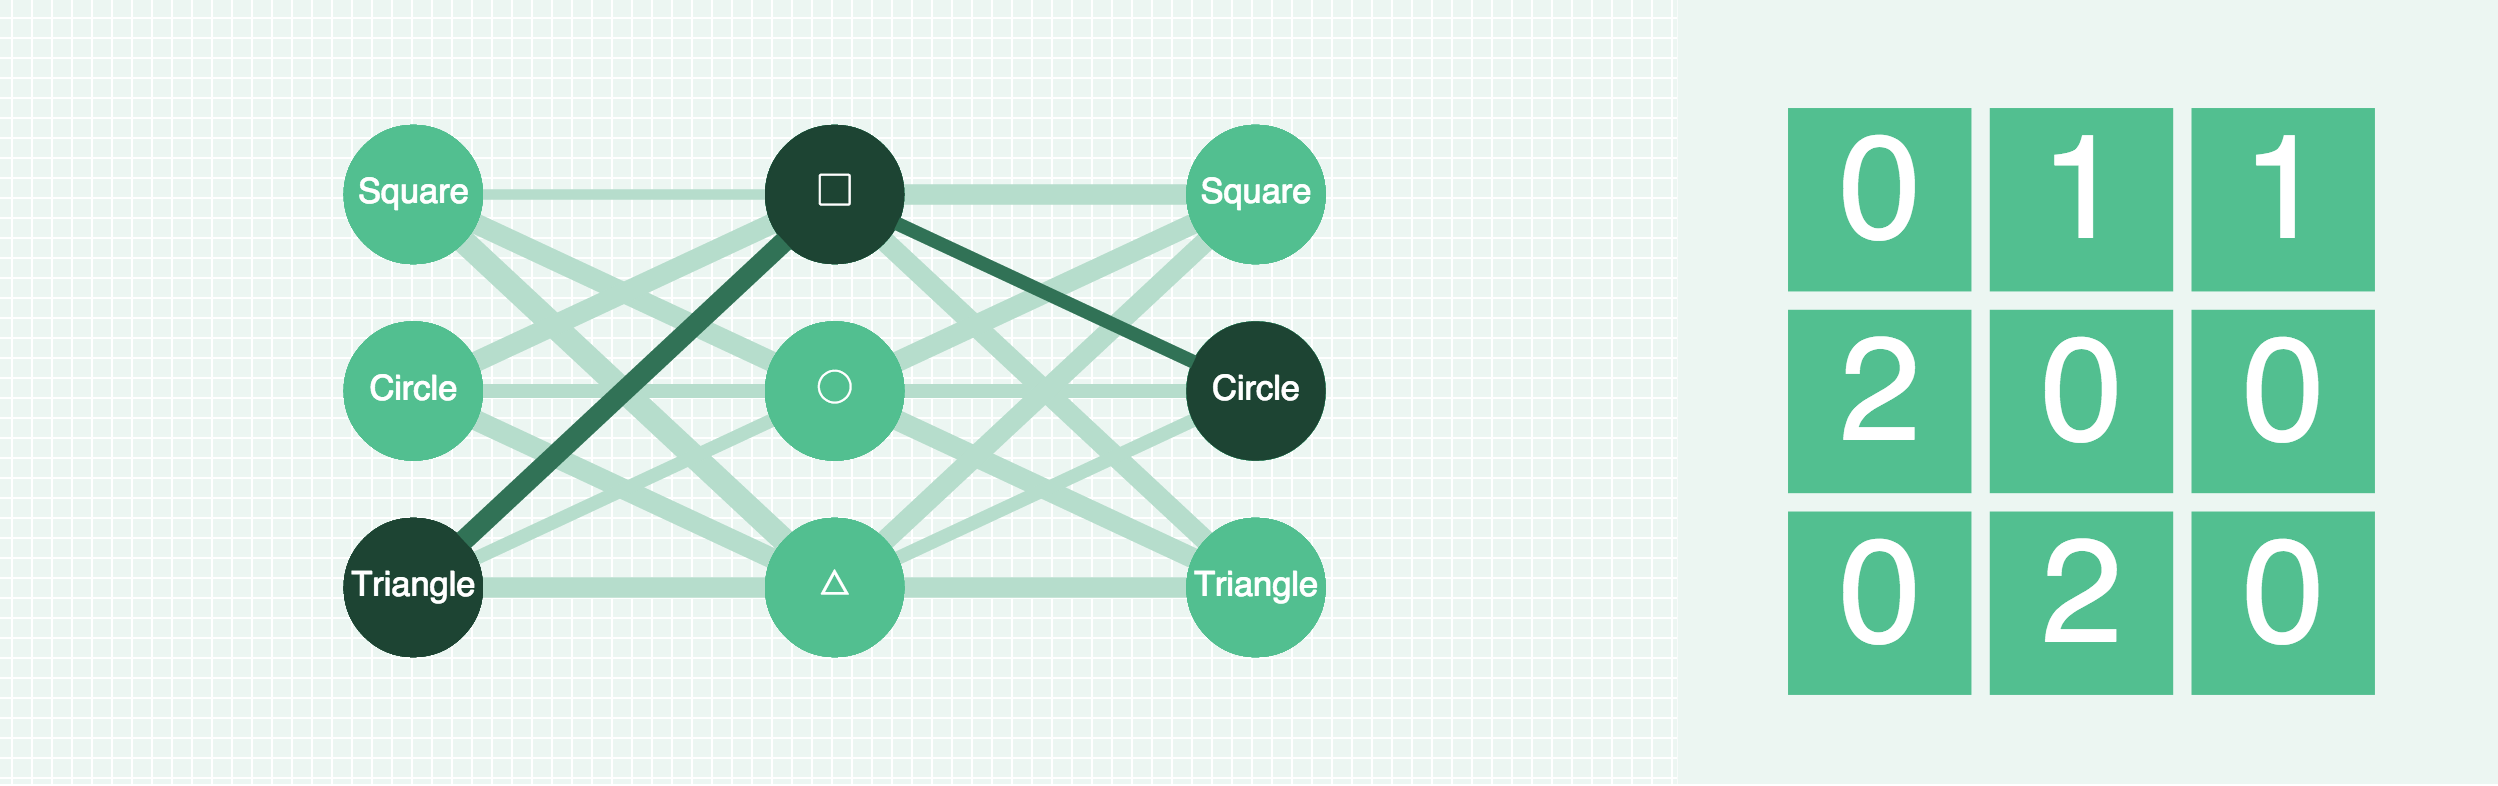
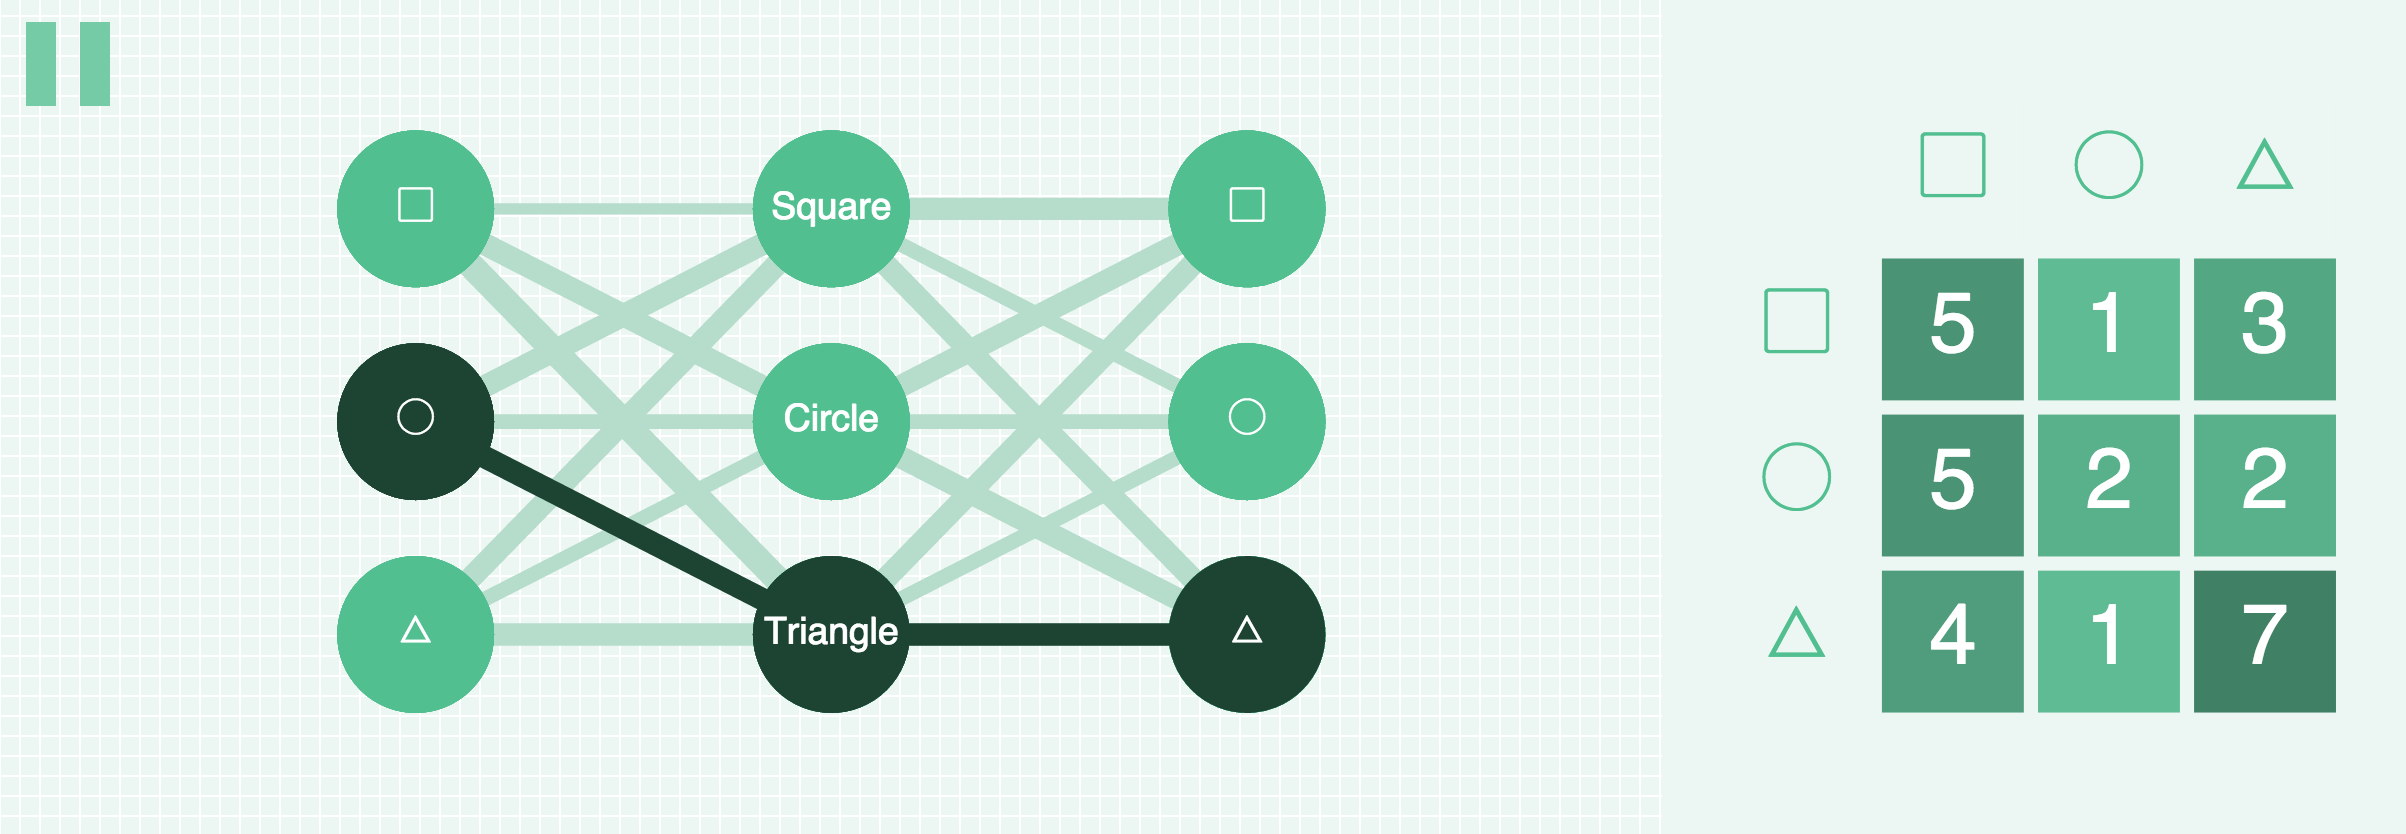
positioned autoplay button

diff --git a/js/src/pgm.js b/js/src/pgm.js
@@ -124,8 +124,8 @@ function GraphicalModel(graphConfiguration) {
             },
             vertex: {
                 radius: 0.35,
-                defaultColor: "lightsteelblue",
-                visitedColor: "steelblue",
+                defaultColor: "#52bf90",
+                visitedColor: "#1d4433",
             },
             edge: {
                 baseWidth: 0.1, // base width offset = baseWidth * circle radius
@@ -147,9 +147,14 @@ function GraphicalModel(graphConfiguration) {
             },
             autoPlay: {
                 on: false,
-                timeInterval: 1000
+                button: {
+                    dim: 1,
+                    color: "#74cba6"
+                },
+                timeIntervalToUpdateChart: 400,
+                timeInterval: 800
             },
-            autoPlayable: true,  // If autoPlayable, creates the autoplay button
+            autoPlayable: true, // If autoPlayable, creates the autoplay button
             zoom: true,
         },
 
@@ -169,7 +174,7 @@ function GraphicalModel(graphConfiguration) {
             // Check if the clicked node is in the first layer
             // which are the num of nodes in first layer of clusterMat
             // Only allow user to click the node if autoplay is off
-            if (canClick) {
+            if (canClick && !self.config.autoPlayable) {
                 d3.event.sourceEvent.stopPropagation();
                 d3.select(this).classed("dragging", true);
                 self.triggerSpeakerNode(this.id);
@@ -496,7 +501,7 @@ function GraphicalModel(graphConfiguration) {
                                 if (self.chart) {
                                     setTimeout(() => {
                                         updateChart();
-                                    }, 500);
+                                    }, self.config.autoPlay.timeIntervalToUpdateChart);
                                 }
                                 // If autoplay is on, then auto click on another node from speak layer
                                 if (self.config.autoPlay.on) {
@@ -547,14 +552,49 @@ function GraphicalModel(graphConfiguration) {
 
 
 
-
-
-
-
-
-
     function createPlayButton() {
-        /* Used to create a play button */
+        /* Used to create a play button, it modifies the default button property */
+
+        var $Button = $("<div>", {
+            class: "play-button paused"
+        });
+        var $left = $("<div>", {
+            class: "left"
+        });
+        var $right = $("<div>", {
+            class: "right"
+        });
+        var $triangle1 = $("<div>", {
+            class: "triangle-1"
+        });
+        var $triangle2 = $("<div>", {
+            class: "triangle-2"
+        });
+        
+        $("#pgm").prepend($Button);
+        
+        $Button.append($left);
+        $Button.append($right);
+        $Button.append($triangle1);
+        $Button.append($triangle2);
+
+        // Update button dimension first
+        self.config.autoPlay.button.dim = Array.min([self.config.transform.height, self.config.transform.width]) / 10.0 * self.config.autoPlay.button.dim;
+
+        $(".play-button").css("height", self.config.autoPlay.button.dim + "px")
+            .css("width", self.config.autoPlay.button.dim + "px");
+
+        $(".triangle-1").css("border-right-width", self.config.autoPlay.button.dim + "px")
+            .css("border-top-width", self.config.autoPlay.button.dim / 2.0 + "px")
+            .css("border-bottom-width", self.config.autoPlay.button.dim / 2.0 + "px");
+
+        $(".triangle-2").css("border-right-width", self.config.autoPlay.button.dim + "px")
+            .css("border-top-width", self.config.autoPlay.button.dim / 1.9 + "px")
+            .css("border-bottom-width", self.config.autoPlay.button.dim / 2.0 + "px");
+
+        $(".left").css("background-color", self.config.autoPlay.button.color);
+        $(".right").css("background-color", self.config.autoPlay.button.color);
+
 
         $(".play-button").click(function () {
             $(this).toggleClass("paused");
@@ -565,9 +605,6 @@ function GraphicalModel(graphConfiguration) {
             }
         });
     }
-
-
-
 
 
     this.triggerSpeakerNode = function (id) {
@@ -626,17 +663,16 @@ function GraphicalModel(graphConfiguration) {
 
     this.display = function () {
         /* Used to display the graph */
-
+        
+        if (self.config.autoPlayable) {
+            createPlayButton();
+        }
         dataScreening(graphData.data);
         createEdgesInGraphData(graphData.data);
         if (self.config.background.grid) {
             drawGrid();
         }
         drawGraph(graphData.data);
-
-        if (self.config.autoPlayable) {
-            createPlayButton();
-        }
     };
 
 
@@ -736,7 +772,7 @@ function GraphicalModel(graphConfiguration) {
         };
     };
 
-    /*======== Graphical Model Autoplay =======*/
+    /*=========== Graphical Model Autoplay ===========*/
 
     function resetChart() {
         /* reset the chart */

diff --git a/css/button.css b/css/button.css
@@ -1,4 +1,6 @@
 @import url("http://fonts.googleapis.com/css?family=Roboto:300");
+
+/*
 body {
   background-color: white;
 }
@@ -9,66 +11,95 @@ h1 {
   text-align: center;
   color: #fff;
 }
+*/
+
 .play-button {
-  height: 300px;
-  width: 300px;
-  display: block;
-  margin: 60px auto;
-  overflow: hidden;
-  position: relative;
+    height: 40px;
+    width: 40px;
+    display: block;
+    margin-top: 1%;
+    margin-left: 1%;
+    overflow: hidden;
+    position: absolute;
 }
+
 .left {
-  height: 100%;
-  float: left;
-  background-color: #52bf90;
-  width: 36%;
-  -webkit-transition: all 0.25s ease;
-  transition: all 0.25s ease;
-  overflow: hidden;
+    height: 100%;
+    float: left;
+    background-color: #52bf90;
+    width: 36%;
+    -webkit-transition: all 0.25s ease;
+    -moz-transition: all 0.25s ease;
+    transition: all 0.25s ease;
+    overflow: hidden;
 }
+
+.right {
+    height: 100%;
+    float: right;
+    width: 36%;
+    background-color: #52bf90;
+    -webkit-transition: all 0.25s ease;
+    -moz-transition: all 0.25s ease;
+    transition: all 0.25s ease;
+}
+
 .triangle-1 {
-  -webkit-transform: translate(0, -100%);
-          transform: translate(0, -100%);
+    -webkit-transform: translate(0, -100%);
+    -moz-transform: translate(0, -100%);
+    transform: translate(0, -100%);
 }
+
 .triangle-2 {
-  -webkit-transform: translate(0, 100%);
-          transform: translate(0, 100%);
+    -webkit-transform: translate(0, 100%);
+    -moz-transform: translate(0, 100%);
+    transform: translate(0, 100%);
 }
+
 .triangle-1,
 .triangle-2 {
-  position: absolute;
-  top: 0;
-  right: 0;
-  background-color: transparent;
-  width: 0;
-  height: 0;
-  border-right: 300px solid white;
-  border-top: 150px solid transparent;
-  border-bottom: 150px solid transparent;
-  -webkit-transition: -webkit-transform 0.25s ease;
-  transition: -webkit-transform 0.25s ease;
-  transition: transform 0.25s ease;
-  transition: transform 0.25s ease, -webkit-transform 0.25s ease;
+    position: absolute;
+    top: 0;
+    right: 0;
+    background-color: transparent;
+    width: 0;
+    height: 0;
+    /*
+    border-right-width: 40px;
+    border-right-style: solid;
+    border-right-color: #ecf6f2;
+*/
+    border-top-width: 20px;
+    border-top-style: solid;
+    border-top-color: transparent;
+    border-bottom-width: 20px;
+    border-bottom-style: solid;
+    border-bottom-color: transparent;
+    -webkit-transition: -webkit-transform 0.25s ease;
+    -moz-transition: -webkit-transform 0.25s ease;
+    transition: -webkit-transform 0.25s ease;
+    transition: -moz-transform 0.25s ease;
+    transition: transform 0.25s ease;
+    -webkit-transform 0.25s ease;
+    -moz-transform 0.25s ease;
 }
-.right {
-  height: 100%;
-  float: right;
-  width: 36%;
-  background-color: #52bf90;
-  -webkit-transition: all 0.25s ease;
-  transition: all 0.25s ease;
-}
+
 .paused .left {
-  width: 50%;
+    width: 50%;
 }
+
 .paused .right {
-  width: 50%;
+    width: 50%;
 }
+
 .paused .triangle-1 {
-  -webkit-transform: translate(0, -50%);
-          transform: translate(0, -50%);
+    -webkit-transform: translate(0, -50%);
+    -moz-transform: translate(0, -50%);
+    transform: translate(0, -50%);
 }
+
 .paused .triangle-2 {
-  -webkit-transform: translate(0, 50%);
-          transform: translate(0, 50%);
+    -webkit-transform: translate(0, 50%);
+    -moz-transform: translate(0, 50%);
+    transform: translate(0, 50%);
 }

diff --git a/js/data2.js b/js/data2.js
@@ -9,8 +9,8 @@ var pgmConfig = {
     },
     vertex: {
         radius: 0.35,
-        defaultColor: "lightsteelblue",
-        visitedColor: "steelblue",
+        defaultColor: "#52bf90",
+        visitedColor: "#1d4433",
     },
     edge: {
         baseWidth: 0.1, // base width offset = baseWidth * circle radius
@@ -32,10 +32,15 @@ var pgmConfig = {
     },
     autoPlay: {
         on: false,
+        button:{
+            dim: 1,
+            color: "#74cba6"
+        },
+        timeIntervalToUpdateChart: 400,
         timeInterval: 800
     },
-    autoPlayable: true,
-    zoom: true,
+    autoPlayable: true,  // If autoPlayable, creates the autoplay button
+    zoom: false,
 };
 
 

diff --git a/index.html b/index.html
@@ -25,14 +25,18 @@
     </div>
 
     <h1>Graphical Model</h1>
-    <a class="play-button paused">
-        <div class="left"></div>
-        <div class="right"></div>
-        <div class="triangle-1"></div>
-        <div class="triangle-2"></div>
-    </a>
+    <div id="pgm">
+<!--
+        <div class="play-button paused">
+            <div class="left"></div>
+            <div class="right"></div>
+            <div class="triangle-1"></div>
+            <div class="triangle-2"></div>
+        </div>
+-->
 
-    <div id="pgm"></div>
+    </div>
+    
 
     <!--cdn scripts are faster but can only be used online-->
     <!--
